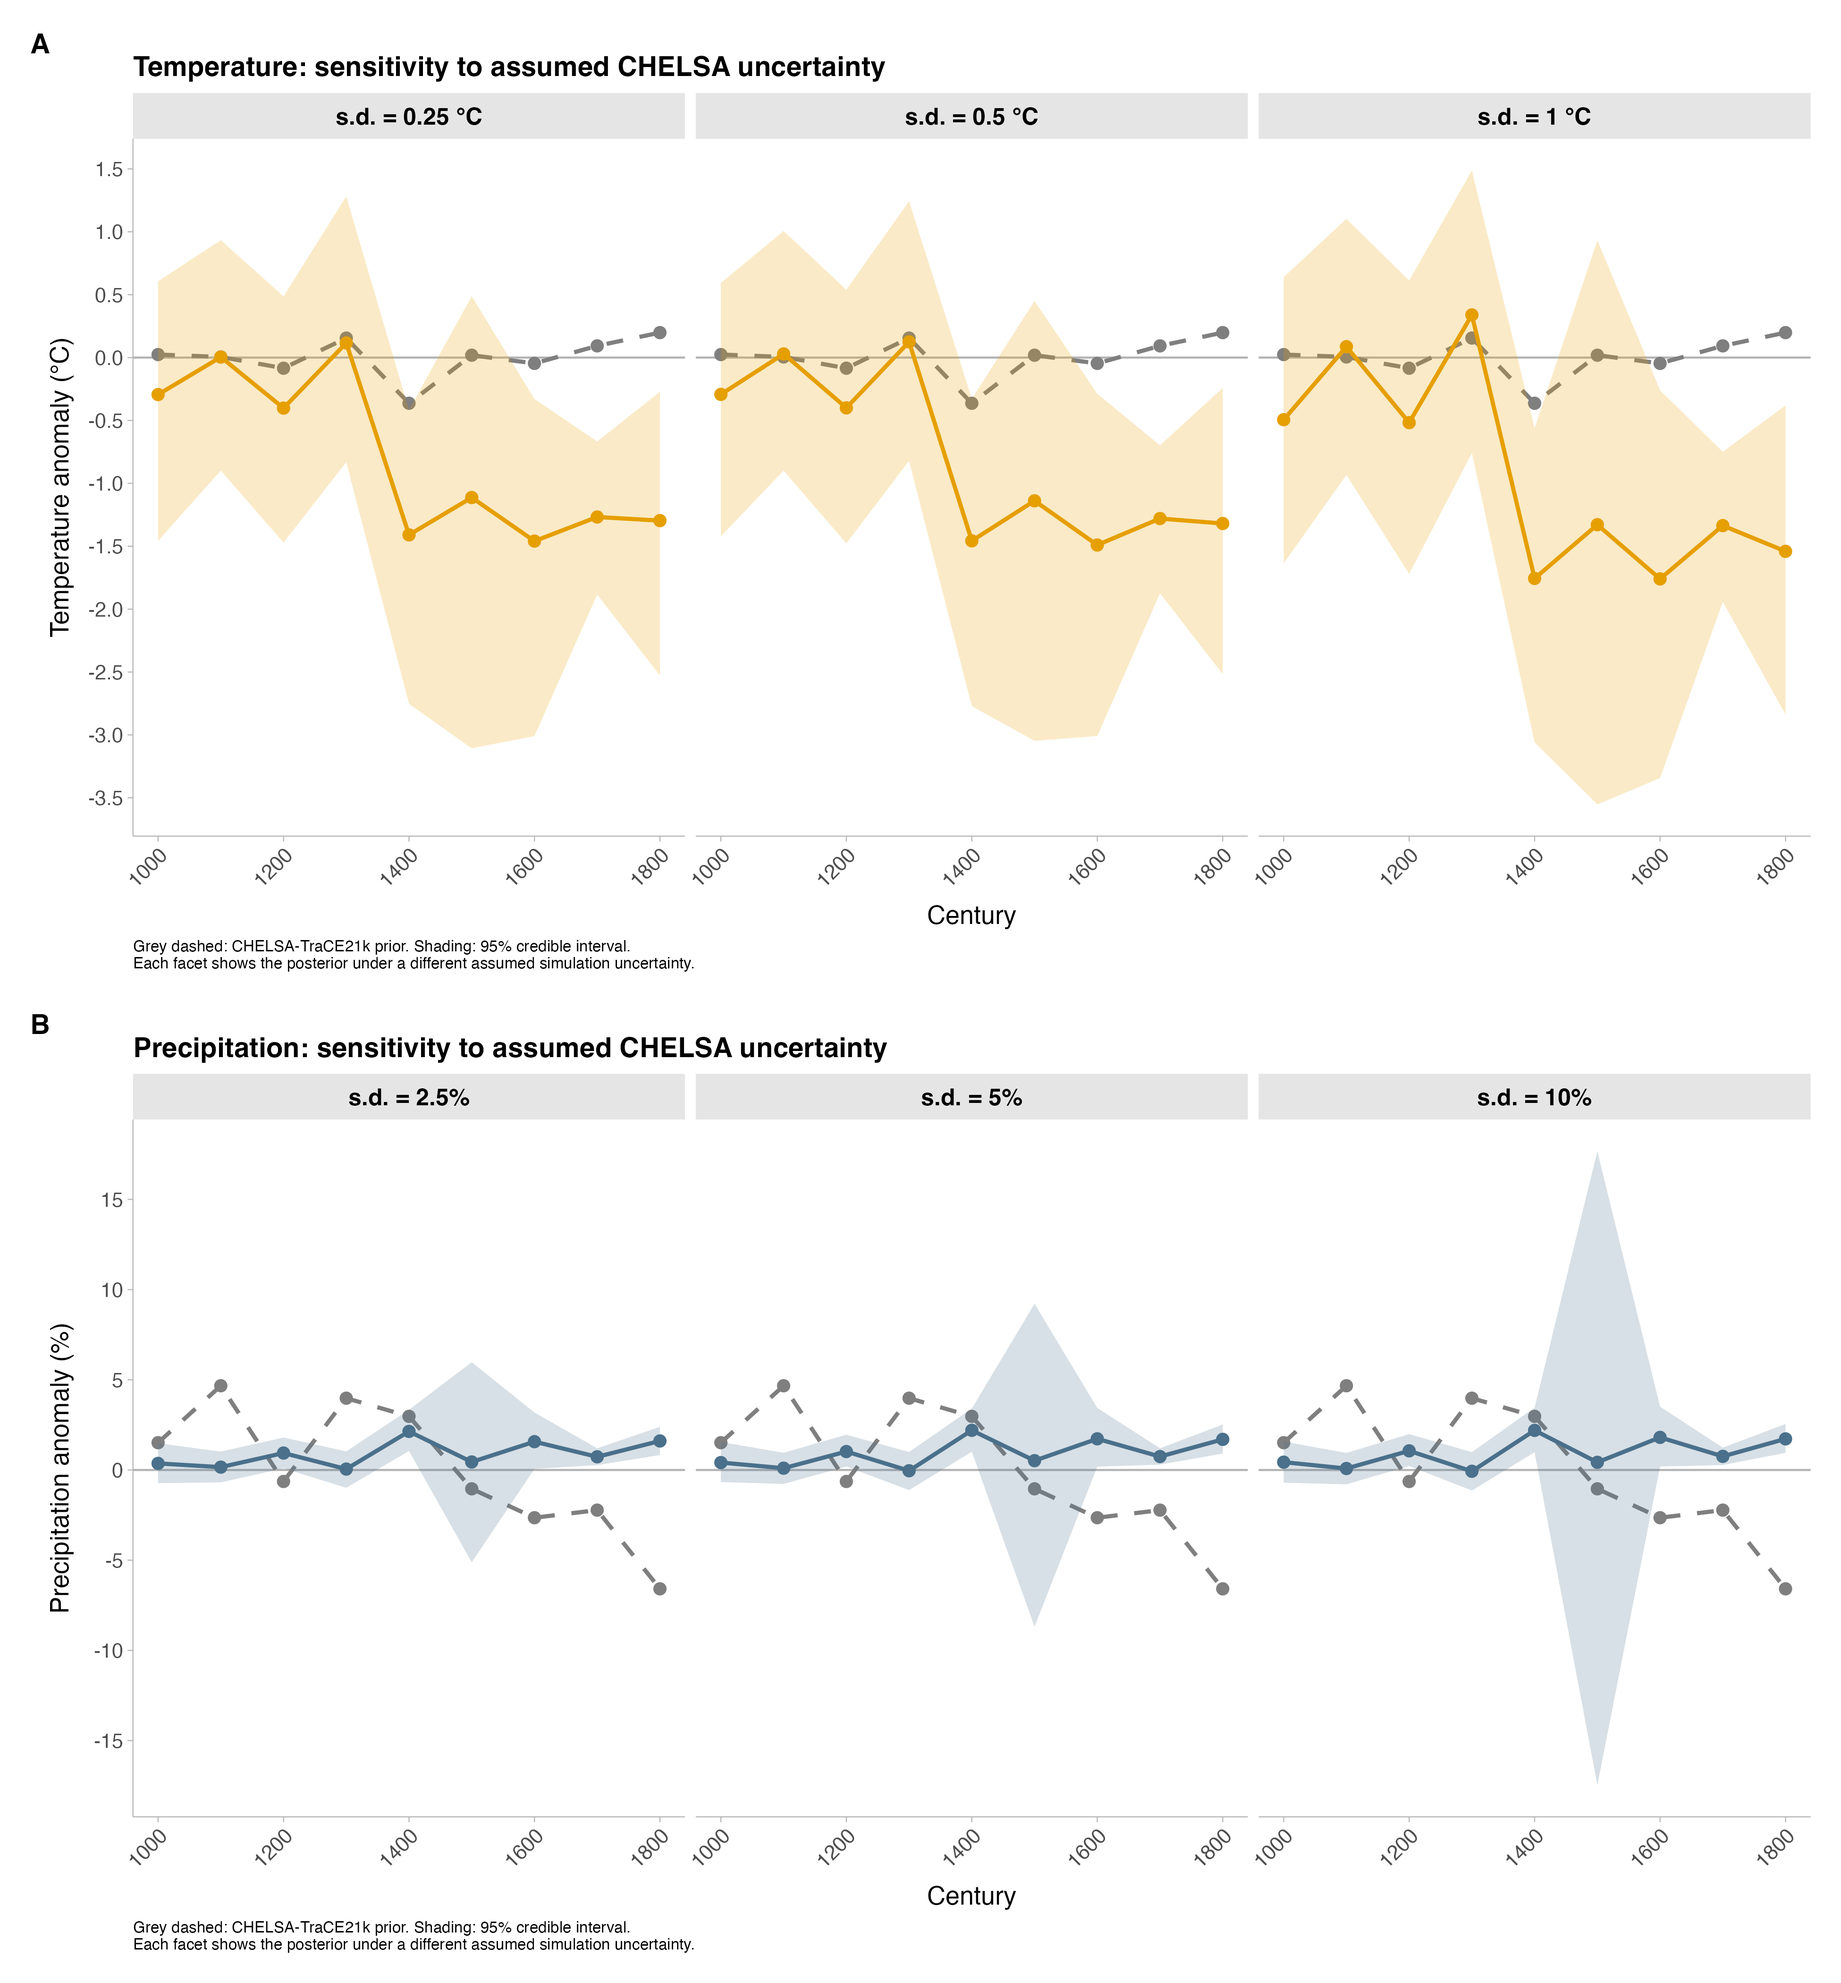
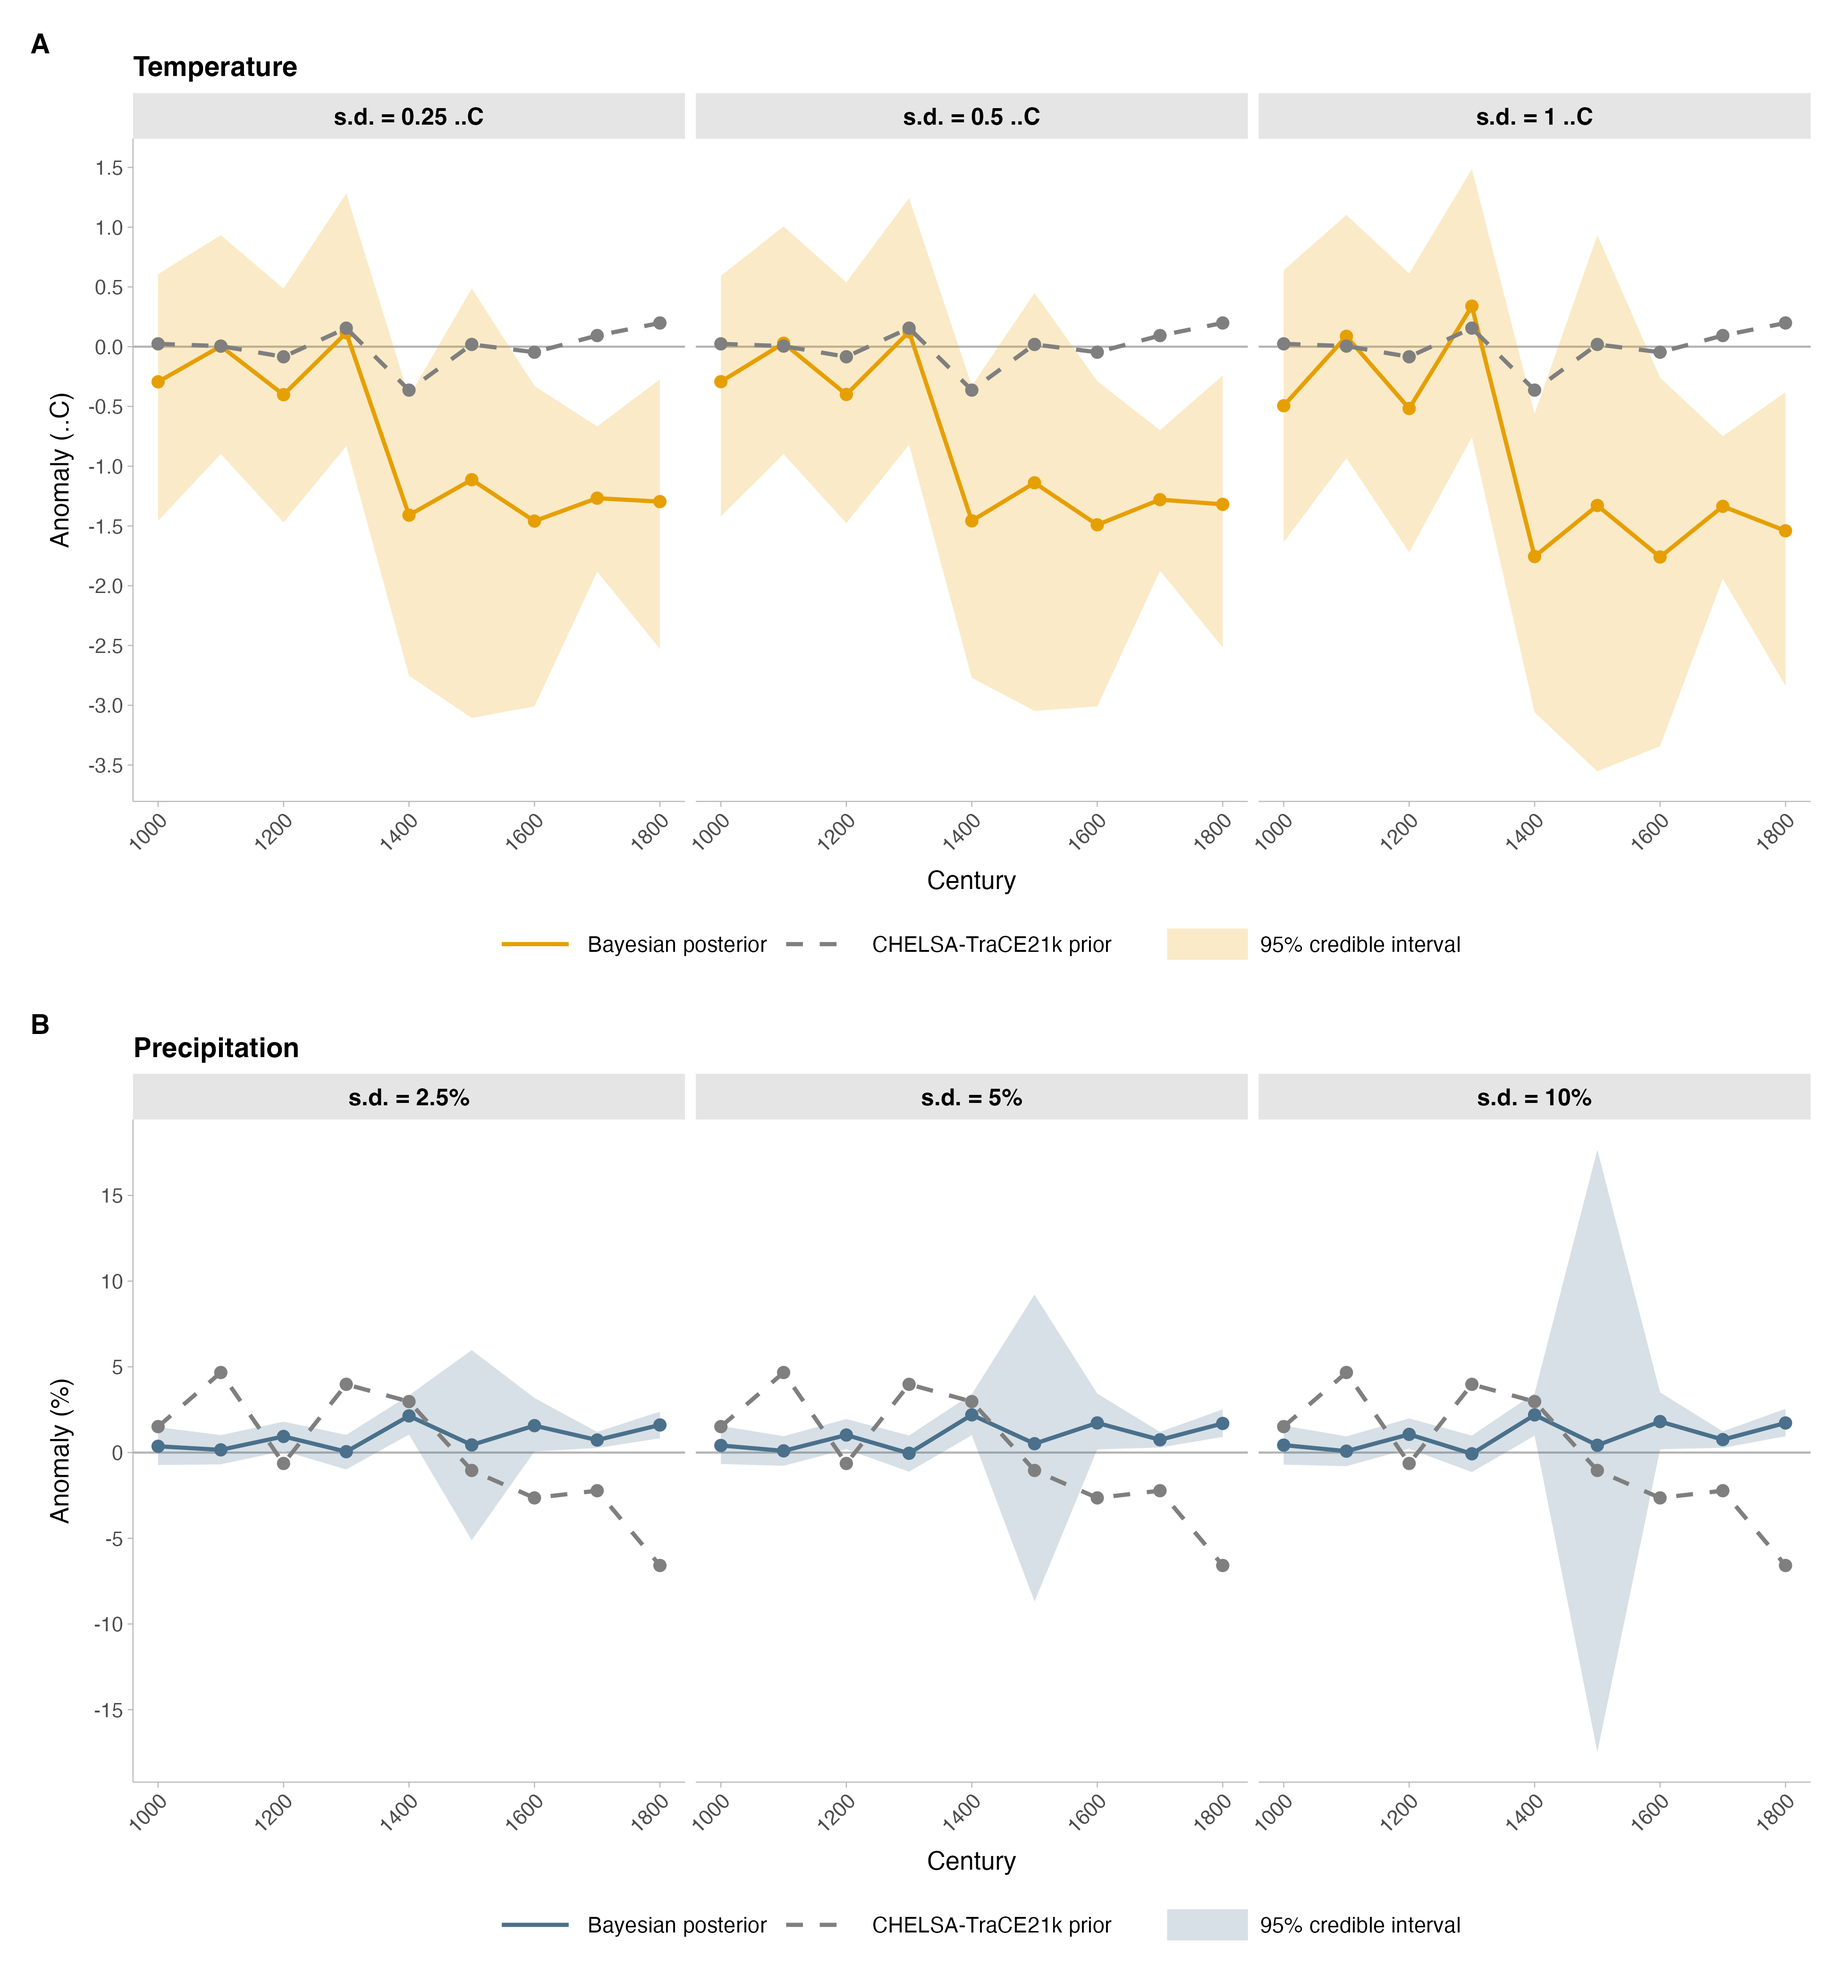
Updates to readme

diff --git a/README.md b/README.md
@@ -86,7 +86,7 @@ The processed output (`climate_data`) is saved to `data/processed/chelsa_climate
 
 ### ModE-RA / ModE-Sim data (optional)
 
-`R/08_ModE_comparison.R` compares the posterior against the ModE-RA reanalysis and ModE-Sim ensemble (Valler et al. 2022). These NetCDF files are not distributed here. Download them from the WDC Climate Data portal:
+`R/08_ModE_comparison.R` compares the posterior against the ModE-RA reanalysis and ModE-Sim ensemble (Valler et al. 2022, Hand et al. 2023). These NetCDF files are not distributed here. Download them from the WDC Climate Data portal:
 
 - ModE-RA: <https://www.wdc-climate.de/ui/q?hierarchy_steps_ss=ModE-RA_s14203-18501&entry_type_s=Dataset>
 - ModE-Sim: <https://www.wdc-climate.de/ui/q?query=ModE-Sim&entry_type_s=Dataset>
